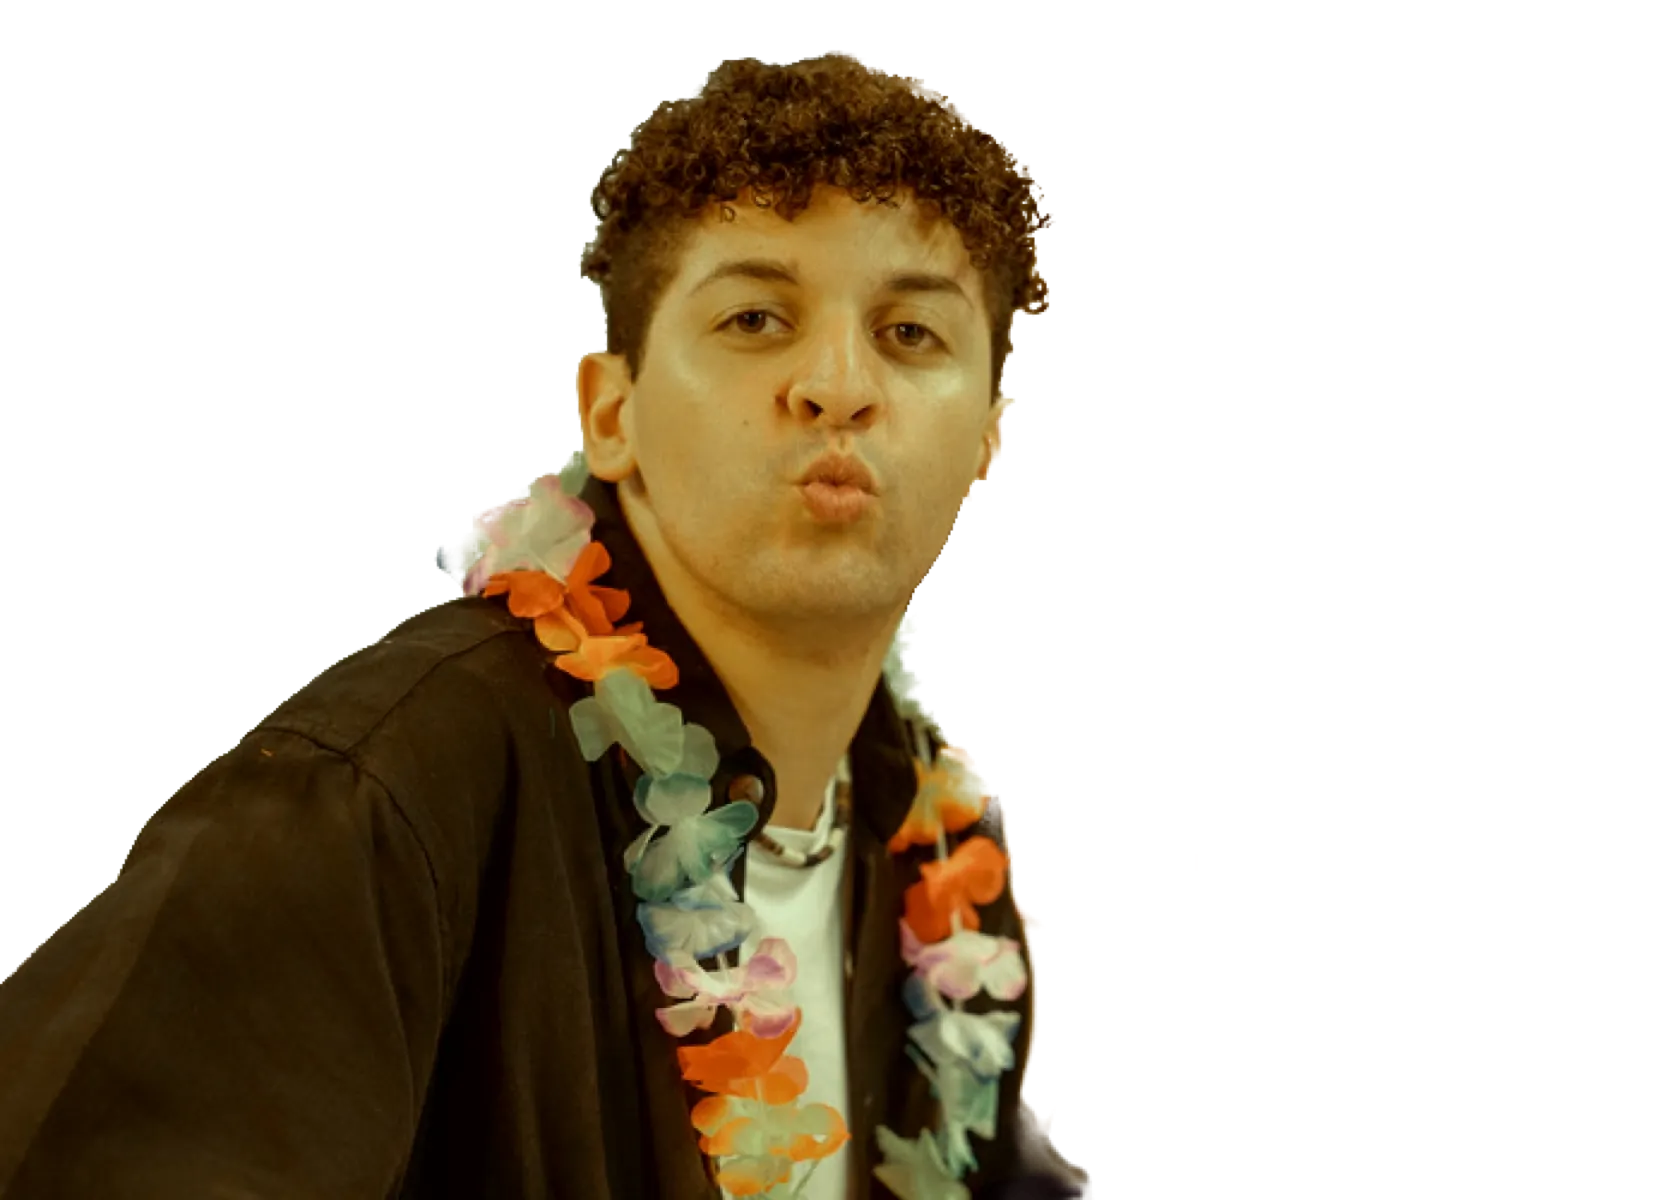
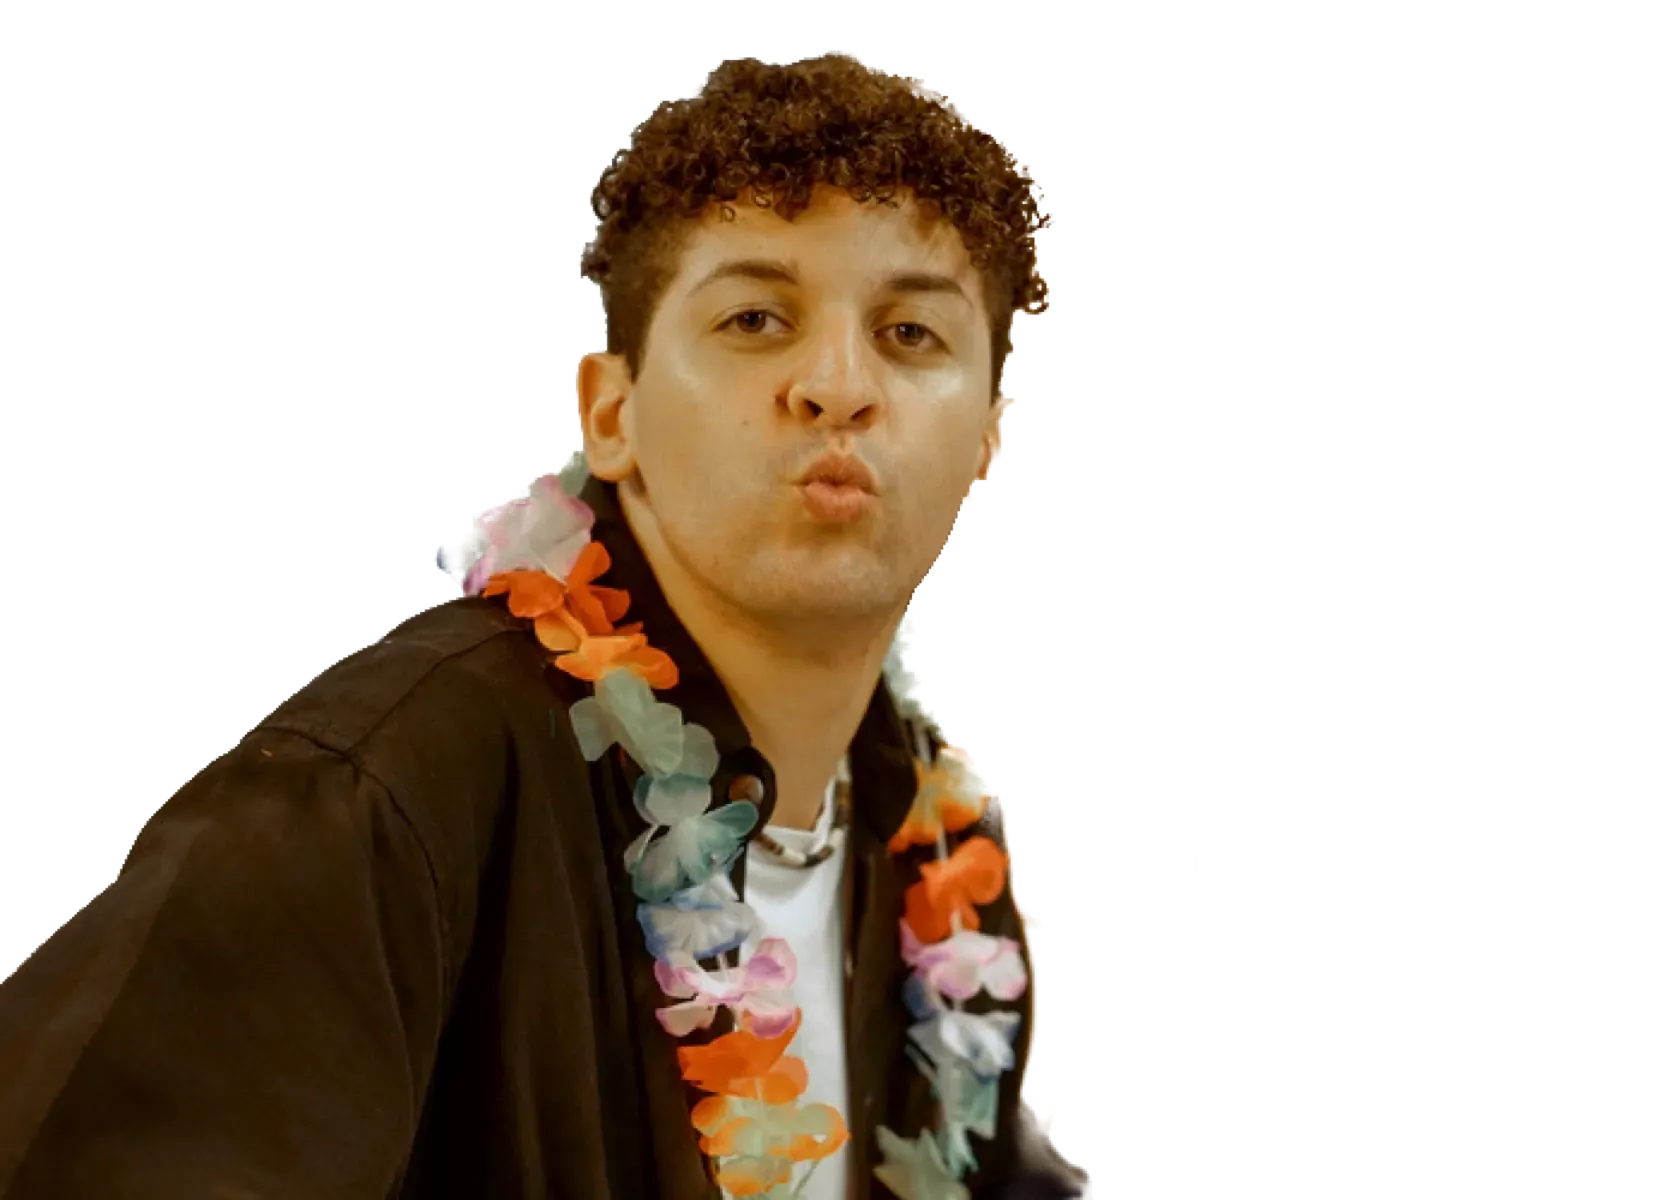
chore: update

diff --git a/tools/hero.swift b/tools/hero.swift
@@ -736,15 +736,19 @@ layPaint(count: 420, rows: 0..<neckY, length: 0.30...0.85, half: 0.05...0.12)
 // The two treatments
 // ---------------------------------------------------------------------------
 
-/// The photographic treatment: the photograph's own colour, opened in contrast.
+/// The tone of the photographic treatment: the photograph's own colour, opened
+/// in contrast.
 ///
 /// The reference grades his photo half down in saturation as well. That is not
 /// carried over: the paint has already taken every shape on the other side, so
 /// colour is what is left to tell the two halves apart, and half of it thrown
 /// away leaves the photograph looking like a third treatment rather than the
-/// picture the paint was made from. Only the tone is touched, and only enough
-/// to lift the figure off white paper.
-func photographic(_ i: Int) -> Colour {
+/// picture the paint was made from. Only the tone is touched here, and only
+/// enough to lift the figure off white paper.
+///
+/// - Parameter i: pixel index into the source
+/// - Returns: the toned colour, before the balance
+func toned(_ i: Int) -> Colour {
     let r = Double(photo[i * 4 + 0]) / 255
     let g = Double(photo[i * 4 + 1]) / 255
     let b = Double(photo[i * 4 + 2]) / 255
@@ -756,6 +760,21 @@ func photographic(_ i: Int) -> Colour {
         min(1, max(0, v + b - lum))
     )
 }
+
+/// sRGB to light. Gains are ratios of light, and applied to the encoded value
+/// they darken the midtones of whichever channel they lift.
+func linearise(_ c: Double) -> Double {
+    c <= 0.04045 ? c / 12.92 : pow((c + 0.055) / 1.055, 2.4)
+}
+
+/// Light back to sRGB, clamped to the range a pixel can hold.
+func encode(_ c: Double) -> Double {
+    let v = min(1, max(0, c))
+    return v <= 0.0031308 ? v * 12.92 : 1.055 * pow(v, 1 / 2.4) - 0.055
+}
+
+/// Rec. 709 luminance of a linear colour.
+func light(_ c: Colour) -> Double { 0.2126 * c.r + 0.7152 * c.g + 0.0722 * c.b }
 
 /// The painted treatment: solid ink shapes over the paint.
 ///
@@ -800,6 +819,71 @@ func painted(_ i: Int, _ x: Int, _ y: Int) -> (Colour, Double) {
 // ---------------------------------------------------------------------------
 
 let originX = faceX - cropW / 2
+
+/// The gains that carry the brightest surface of the figure back to neutral.
+///
+/// The photograph was taken under a warm light. Its white t-shirt comes out
+/// yellow-green, and the skin comes out yellow with it, which reads as a
+/// complexion rather than as a lamp. Correcting it by hand means choosing what
+/// a face should look like; measuring it does not, so the reference is the
+/// picture's own white: the mean of the brightest hundredth of the figure
+/// inside the crop, taken after the tone so the balance sees what ships.
+///
+/// The gains are renormalised to leave that reference's luminance where it
+/// was. Without it the correction dims the picture as it cools it, and the
+/// figure stops standing off the paper, which is the one thing the tone above
+/// was for. Saturation is untouched here too: this moves where the colour is,
+/// not how much of it there is.
+let whiteGains: Colour = {
+    var samples: [(light: Double, colour: Colour)] = []
+    samples.reserveCapacity(cropW * cropH)
+
+    for y in 0..<cropH {
+        let sourceY = cropY + y
+        guard sourceY >= 0, sourceY < height else { continue }
+        for x in 0..<cropW {
+            let sourceX = originX + x
+            guard sourceX >= 0, sourceX < width else { continue }
+            let i = sourceY * width + sourceX
+            guard maskAt(i * 4) > 0.98 else { continue }
+
+            let c = toned(i)
+            let linear: Colour = (linearise(c.r), linearise(c.g), linearise(c.b))
+            samples.append((light(linear), linear))
+        }
+    }
+
+    guard !samples.isEmpty else { return (1, 1, 1) }
+    let sorted = samples.map(\.light).sorted()
+    let cut = sorted[Int(Double(sorted.count - 1) * 0.99)]
+
+    var sum: Colour = (0, 0, 0)
+    var n = 0.0
+    for (l, c) in samples where l >= cut {
+        sum = (sum.r + c.r, sum.g + c.g, sum.b + c.b)
+        n += 1
+    }
+    guard n > 0 else { return (1, 1, 1) }
+
+    let ref: Colour = (sum.r / n, sum.g / n, sum.b / n)
+    let flat = (ref.r + ref.g + ref.b) / 3
+    let raw: Colour = (flat / ref.r, flat / ref.g, flat / ref.b)
+    let keep = light(ref) / light((ref.r * raw.r, ref.g * raw.g, ref.b * raw.b))
+    return (raw.r * keep, raw.g * keep, raw.b * keep)
+}()
+
+/// The photographic treatment: the tone above, balanced against that white.
+///
+/// - Parameter i: pixel index into the source
+/// - Returns: the colour to lay down
+func photographic(_ i: Int) -> Colour {
+    let c = toned(i)
+    return (
+        encode(linearise(c.r) * whiteGains.r),
+        encode(linearise(c.g) * whiteGains.g),
+        encode(linearise(c.b) * whiteGains.b)
+    )
+}
 
 enum Treatment { case photo, paint }
 
